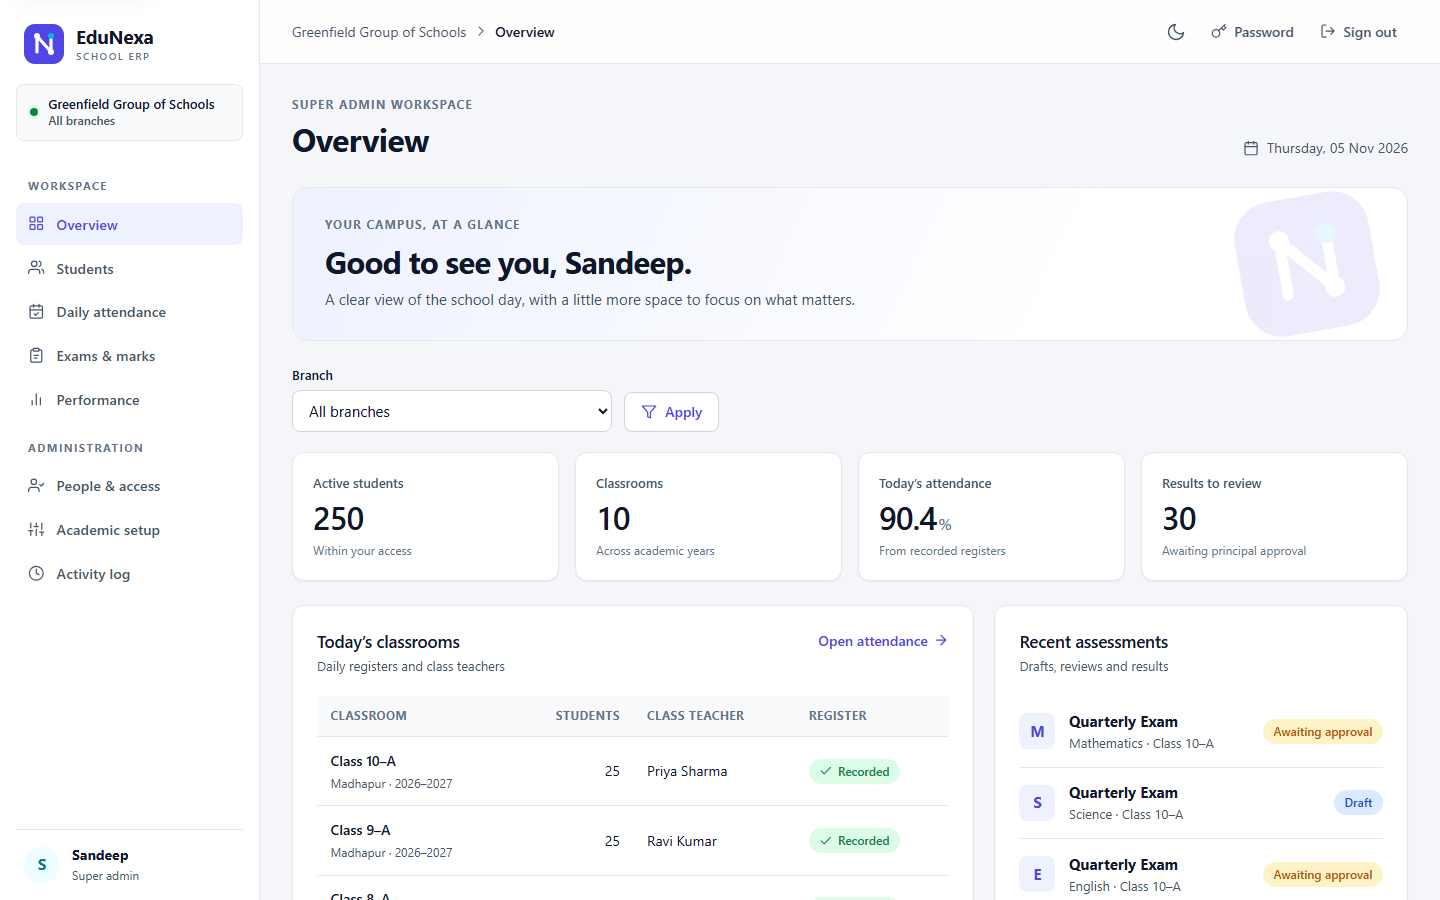
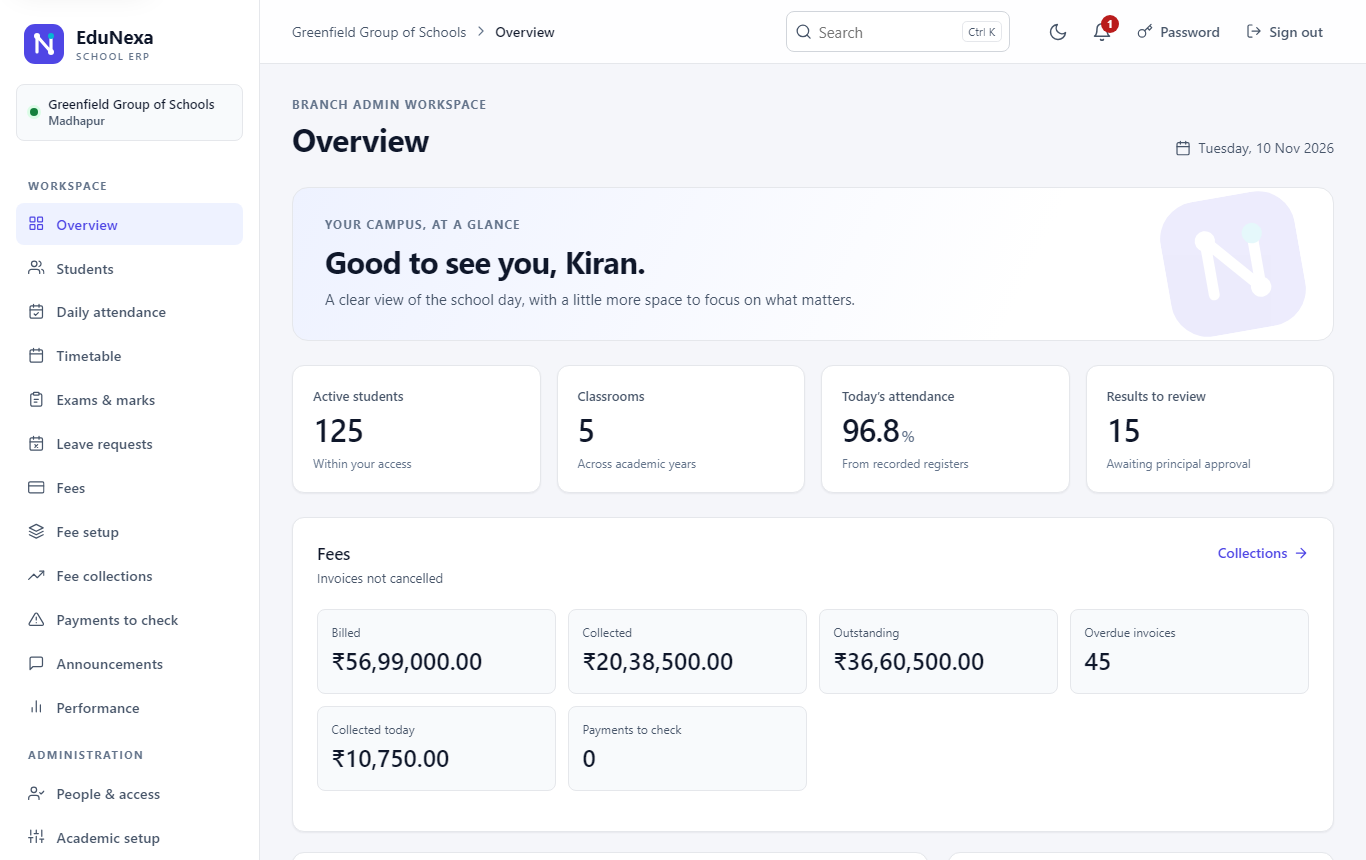
docs: showcase for the release, and the docs use the edunexa name
README: Phase 6 features (leavers and records, Ctrl+K search, demo mode, deployment), new
engineering highlights (rehearsed production stack, real-browser tests, bulk saves), a gallery
of six screens, and links to SECURITY.md and the e2e checks. The CI badge and repository links
use `edunexa`; the GitHub rename itself waits for approval. DEPLOYMENT.md gains a diagram of
the production stack. e2e/screenshots.py regenerates every screenshot from the demo data.

diff --git a/e2e/screenshots.py b/e2e/screenshots.py
@@ -1,0 +1,92 @@
+"""Regenerate the README's screenshots (docs/screenshots/) from a running EduNexa with the full
+demo data (`manage.py seed_demo`, not in demo mode, so no demo banner):
+
+    python e2e/screenshots.py BASE_URL DEMO_PASSWORD
+"""
+
+import sys
+from pathlib import Path
+
+from playwright.sync_api import sync_playwright
+
+BASE = ""
+
+OUT = Path(__file__).resolve().parent.parent / "docs" / "screenshots"
+DESKTOP = {"viewport": {"width": 1366, "height": 860}}
+PHONE = {
+    "viewport": {"width": 390, "height": 844},
+    "is_mobile": True,
+    "has_touch": True,
+    "device_scale_factor": 2,
+}
+
+
+def record(list_path, pattern):
+    """The first link on a list page whose address matches `pattern` (a JS regex)."""
+
+    def find(page):
+        page.goto(BASE + list_path)
+        return page.evaluate(
+            "pattern => [...document.querySelectorAll('#main a')].map(a => a.getAttribute('href'))"
+            ".find(href => new RegExp(pattern).test(href))",
+            pattern,
+        )
+
+    return find
+
+
+def register(page):
+    """Today's register for the teacher's first class."""
+    page.goto(BASE + "/attendance/")
+    classroom = page.eval_on_selector(
+        "select[name=classroom]", "s => [...s.options].find(o => o.value).value"
+    )
+    day = page.eval_on_selector("input[name=date]", "i => i.value")
+    return f"/attendance/?classroom={classroom}&date={day}"
+
+
+# name, username (None: signed out), the page (or how to find it), browser options
+SHOTS = [
+    ("sign-in", None, "/accounts/login/", {}),
+    ("dashboard", "admin.madhapur", "/", {}),
+    ("exam-review", "principal.madhapur", record("/exams/?status=submitted", r"^/exams/\d+/$"), {}),
+    (
+        "student-report-dark",
+        "teacher.madhapur",
+        record("/students/", r"/report/$"),
+        {"color_scheme": "dark"},
+    ),
+    ("attendance", "teacher.madhapur", register, {}),
+    ("timetable", "admin.madhapur", record("/timetable/", r"^/timetable/\d+/$"), {}),
+    ("search", "admin.madhapur", "/search/?q=ra", {}),
+    ("parent-phone", "parent1.madhapur", "/", PHONE),
+    ("api-docs", None, "/api/docs/", {}),
+]
+
+
+def main():
+    global BASE
+    BASE, password = sys.argv[1].rstrip("/"), sys.argv[2]
+    with sync_playwright() as playwright:
+        browser = playwright.chromium.launch()
+        for name, username, target, options in SHOTS:
+            context = browser.new_context(**{**DESKTOP, "color_scheme": "light", **options})
+            page = context.new_page()
+            if username:
+                page.goto(BASE + "/accounts/login/")
+                page.fill("#id_username", username)
+                page.fill("#id_password", password)
+                page.click("button[type=submit]")
+                page.wait_for_load_state("networkidle")
+            path = target(page) if callable(target) else target
+            page.goto(BASE + path)
+            page.wait_for_load_state("networkidle")
+            page.wait_for_timeout(800)  # charts finish their animation
+            page.screenshot(path=OUT / f"{name}.png")
+            print(f"{name}.png  {path}")
+            context.close()
+        browser.close()
+
+
+if __name__ == "__main__":
+    main()

diff --git a/README.md b/README.md
@@ -2,18 +2,22 @@
 
 **School ERP for school groups with many branches, built with Django.**
 
-[![CI](https://github.com/Sandeepjanjirala/ERP/actions/workflows/ci.yml/badge.svg)](https://github.com/Sandeepjanjirala/ERP/actions/workflows/ci.yml)
+[![CI](https://github.com/Sandeepjanjirala/edunexa/actions/workflows/ci.yml/badge.svg)](https://github.com/Sandeepjanjirala/edunexa/actions/workflows/ci.yml)
 ![Python 3.12](https://img.shields.io/badge/python-3.12-blue)
 ![Django 5.2 LTS](https://img.shields.io/badge/django-5.2%20LTS-0C4B33)
 ![PostgreSQL 17](https://img.shields.io/badge/postgresql-17-336791)
 
-EduNexa runs the daily work of a school group: branches, classrooms and teachers, daily attendance, exams with a principal-approval workflow, student reports and performance analysis. Every role sees only what it is responsible for, and every important change is recorded in an activity log. Everything is also available through a documented REST API.
+EduNexa runs the daily work of a school group: branches, classrooms and teachers, timetables, daily attendance, exams with a principal-approval workflow, fees with online payments, a parent portal, reports and performance analysis. Every role sees only what it is responsible for, and every important change is recorded in an activity log. Everything is also available through a documented REST API, and the whole stack (HTTPS, PostgreSQL, Redis, Celery) is ready to deploy on one Linux server.
 
 ![Overview dashboard](docs/screenshots/dashboard.png)
 
-| Exam review (principal) | Student report (dark theme) |
+| One-tap attendance (teacher) | Exam review (principal) |
 |---|---|
-| ![Exam review](docs/screenshots/exam-review.png) | ![Student report in dark mode](docs/screenshots/student-report-dark.png) |
+| ![Daily attendance register](docs/screenshots/attendance.png) | ![Exam review](docs/screenshots/exam-review.png) |
+| **Weekly timetable (admin)** | **Student report (dark theme)** |
+| ![Timetable editing](docs/screenshots/timetable.png) | ![Student report in dark mode](docs/screenshots/student-report-dark.png) |
+| **Search with Ctrl+K** | **Parent portal on a phone** |
+| ![Global search](docs/screenshots/search.png) | ![Parent overview on a phone](docs/screenshots/parent-phone.png) |
 
 ## What it does
 
@@ -24,10 +28,13 @@ EduNexa runs the daily work of a school group: branches, classrooms and teachers
 - **Parents:** parent accounts linked to one or more children, with a primary contact. Parents follow attendance and results, download report cards, and apply for leave, which the class teacher approves.
 - **Admissions and year end:** import students and their guardians from a CSV with a full preview (all rows saved together, or none), and move a class on at the end of the year in one go (move up, repeat or leave), safe to run twice.
 - **Fees and payments:** fee plans per grade, invoices, concessions, cash/UPI/cheque at the office, and online payment through Razorpay (test mode) or a built-in Sandbox. Receipts are numbered without gaps and emailed as PDFs; overdue families get a weekly reminder; finance staff get a collection report with CSV. No real money moves.
-- **Notifications:** a notification bell and email for absences, published results, leave decisions and announcements, sent in the background.
+- **Notifications:** a notification bell (it refreshes itself) and email for absences, published results, leave decisions and announcements, sent in the background.
+- **Students who leave:** an admin records the last day. The student's sign-in stops the next day; parents keep access for a grace period (30 days, or 90 while fees are owed) to download a ZIP of every report card, the fee statement and receipts. Nothing is deleted.
+- **Search:** Ctrl+K from any page finds students, people and invoices, each limited to what you may see.
 - **Dashboards:** for each role, with attendance charts, students below 75% attendance, and what is waiting for you.
 - **Reports:** report-card PDFs, printable student reports, subject performance analysis, and CSV exports scoped to your access and protected against spreadsheet formula injection.
-- **Security:** login throttling, a forced password change on first sign-in, a strict Content-Security-Policy, HSTS and secure cookies, and signed-in pages are never cached.
+- **Security:** login throttling, a forced password change on first sign-in, accounts switched off lose their sessions and tokens at once, a strict Content-Security-Policy (no inline scripts or styles), HSTS and secure cookies, and signed-in pages are never cached. See [SECURITY.md](docs/SECURITY.md).
+- **A public demo mode:** one-click logins for every role, a nightly reset to fresh synthetic data, no real emails and Sandbox payments only. The reset refuses any database the demo didn't create.
 - **Interface:** light and dark themes, responsive down to phone width, and keyboard and screen-reader friendly.
 - **REST API:** every feature under `/api/v1/` (password reset by email stays a web flow), with JWT sign-in, Swagger UI at `/api/docs/` and ReDoc at `/api/redoc/`. See [API.md](docs/API.md).
 
@@ -47,7 +54,9 @@ EduNexa runs the daily work of a school group: branches, classrooms and teachers
 | Caching that can't go stale | Dashboard numbers are cached in Redis under keys that include a fingerprint of the registers, so any change gives a new key. |
 | No N+1 queries | A test measures each API list's SQL queries with few rows and with many; the count must not change. |
 | Layered apps | Eleven apps ordered by dependency, with no circular imports, enforced by an import-linter contract on every test run. See [ARCHITECTURE.md](docs/ARCHITECTURE.md). |
-| Production safety | Settings per environment. Production refuses to start without a secret key and PostgreSQL, and Django's `check --deploy` runs in CI. |
+| Production ready, and rehearsed | Caddy (automatic HTTPS) in front of Gunicorn, Celery and PostgreSQL in [`deploy/`](deploy/). Production refuses to start with incomplete settings. A script builds that stack locally under production settings and checks HTTPS, headers and cookies, runs the API checks, crawls every role's pages in a real browser, and runs a backup and restore drill that compares every table. See [DEPLOYMENT.md](docs/DEPLOYMENT.md). |
+| Tested in a real browser | Playwright drives Chromium against the real Content-Security-Policy: one-tap attendance, timetable editing, live filters, Ctrl+K search, the bell, dialogs, charts, keyboard use and phone layouts. A crawl opens every page for every role and fails on any console error. |
+| Saves that scale | A register or mark sheet is checked row by row, then written in bulk, in the same number of queries for 5 students or 50 (a test checks this). |
 | Tested | 446 tests (plus 938 table-driven cases, such as every API endpoint for every role) with 95% branch coverage. CI runs them on PostgreSQL along with lint, a migration check, an OpenAPI schema check, a real Celery worker taking a job through Redis, and a Docker build. |
 
 ## Run it on your computer
@@ -83,7 +92,7 @@ Install Docker Desktop, run `python setup_local.py` once to create `.env`, then:
 
 ```powershell
 docker compose up --build -d
-docker compose exec web python manage.py seed_demo   # a few minutes: Docker on Windows adds a little to every query
+docker compose exec web python manage.py seed_demo
 ```
 
 Compose runs the full stack: PostgreSQL, Redis, the web app (gunicorn and WhiteNoise) on http://127.0.0.1:8000/, a Celery worker and scheduler, and Mailpit, which catches every email EduNexa sends so you can read them at http://127.0.0.1:8025/. Without Docker, background jobs simply run inside the request and emails print in the terminal. Data lives in a Docker volume. `docker compose stop` stops it; removing the volume deletes the data.
@@ -120,9 +129,11 @@ apps/
   attendance/    daily registers, leave requests, absence alerts
   exams/         exams, marks, result workflow, results notifications
   reports/       dashboards and charts, student report, report-card PDF, performance, activity log
-  demo/          seed_demo command
+  demo/          seed_demo, demo mode: one-click logins and the nightly reset
                  each domain app: selectors, policies, services, web views, api/, tests/ with factories
-config/          settings (base, dev, prod, test), URLs, API URLs, WSGI
+config/          settings (base, dev, prod, test, build), URLs, API URLs, WSGI
+deploy/          production: Compose with Caddy HTTPS, env example, backup and restore scripts
+e2e/             browser tests, API checks, crawl, and the upgrade, migration and deploy rehearsals
 templates/       layout, partials and shared components
 static/          design tokens, CSS, JavaScript, SVG icons
 docs/            design, architecture, permissions, data rules, deployment, decision records
@@ -143,12 +154,14 @@ Initial passwords must be shared privately, and everyone must change theirs at f
 
 ## Documentation
 
-- [Design and roadmap](docs/DESIGN.md): where EduNexa is going, in six phases.
+- [Design and roadmap](docs/DESIGN.md): the six phases EduNexa was built in.
 - [Architecture](docs/ARCHITECTURE.md): how the code is organised and how a request flows.
 - [REST API](docs/API.md): signing in, conventions, errors and every endpoint.
 - [Permissions](docs/PERMISSIONS.md): the full role-by-action access matrix.
 - [Data rules](docs/DATA_RULES.md): attendance, results, grading, fees, timetable, import and promotion rules.
-- [Deployment](docs/DEPLOYMENT.md): production settings and release steps.
+- [Deployment](docs/DEPLOYMENT.md): a Linux server with Docker Compose and HTTPS, releases, backups and restores, the public demo.
+- [Security](docs/SECURITY.md): what protects the data, and the pre-release review.
+- [End-to-end checks](e2e/README.md): the browser tests and rehearsals, and how to run them.
 - [Upgrading](docs/UPGRADING.md): moving data from the single-app version, tested.
 - [Decision records](docs/adr/): why the main technical choices were made.
 - [Backlog](docs/BACKLOG.md): known limitations and follow-ups, with the phase likely to take each on.

diff --git a/docs/DESIGN.md b/docs/DESIGN.md
@@ -30,7 +30,7 @@ EduNexa should show a reviewer, within two minutes, that its author can build pr
 | Report card and fee receipt PDFs | The school's name and branch in the header (it is their document); "Generated by EduNexa" in the footer |
 | Workspace label in the sidebar | The school and branch you are working in, for example `Greenfield · Madhapur` |
 | API docs | "EduNexa API" |
-| GitHub | Rename the repo `ERP` → `edunexa` |
+| GitHub | The repository is `edunexa` (the docs use that name; the GitHub rename from `ERP` waits for the owner's approval of the release) |
 
 How it is built: one `BRAND` setting (`name`, `tagline`), read by a context processor. No template types the name by hand. The word "Demo" is never part of any name. The demo data uses a fictional school group, *Greenfield Group of Schools*, which can be renamed in one line of the seed command.
 
@@ -325,7 +325,7 @@ Each phase ends with green tests and CI, updated docs, focused commits with clea
 | **3. Async and parent portal** (done) | Redis + Celery; announcements, notifications, guardians and parent role, absence alerts, leave requests, report card PDFs, role dashboards with charts, caching | Background jobs and real-world workflows |
 | **4. Fees and payments** (done) | Accountant role, fee plans, invoices, concessions, Razorpay + Sandbox, webhooks, receipts, reminders, collection reports | A payments integration done properly |
 | **5. Academic operations** (done) | Terms and grading scale, timetable with clash rules, CSV import with preview, year-end promotion, activity-log filters | Product depth |
-| **6. Ship and showcase** | Deploy with Docker (managed PostgreSQL + Redis, HTTPS), one-click demo logins, nightly reset, screenshots, architecture doc with diagrams, decision records (ADRs), repo renamed to `edunexa` | A live link on your resume |
+| **6. Ship and showcase** (built; release awaiting approval) | Production stack with Docker Compose and Caddy HTTPS on one VPS, rehearsed locally with backups and restores; leavers' access rules; demo mode with one-click logins and a nightly reset; real-browser tests; security review; screenshots, diagrams, decision records (ADRs); docs use `edunexa` | A live link on your resume, once hosting is approved |
 
 Deployment can move up to straight after Phase 2 if you want a live link sooner.
 

diff --git a/docs/DEPLOYMENT.md b/docs/DEPLOYMENT.md
@@ -6,6 +6,20 @@ The whole stack has been rehearsed locally under production settings (`python e2
 
 ## What runs
 
+```mermaid
+flowchart LR
+    people["Browsers · API clients"] -- "HTTPS 443<br/>(HTTP 80 redirects)" --> caddy["caddy<br/>certificates · compression"]
+    caddy --> web["web<br/>Gunicorn + Django"]
+    web --> db[("db<br/>PostgreSQL 17")]
+    web -- "jobs after commit · cache" --> redis[("redis")]
+    beat["beat<br/>nightly schedule"] --> redis
+    redis --> worker["worker<br/>Celery"]
+    worker --> db
+    worker -- "SMTP" --> mail["Email provider"]
+    backup["backup.sh (cron)"] -. "pg_dump" .-> db
+    backup -. "copy off the server" .-> offsite[("Off-site storage")]
+```
+
 | Service | What it does | Reachable from outside |
 |---|---|---|
 | `caddy` | HTTPS with automatic Let's Encrypt certificates, HTTP→HTTPS redirect, compression, a 5 MB request limit, access logs | Ports 80 and 443 |
